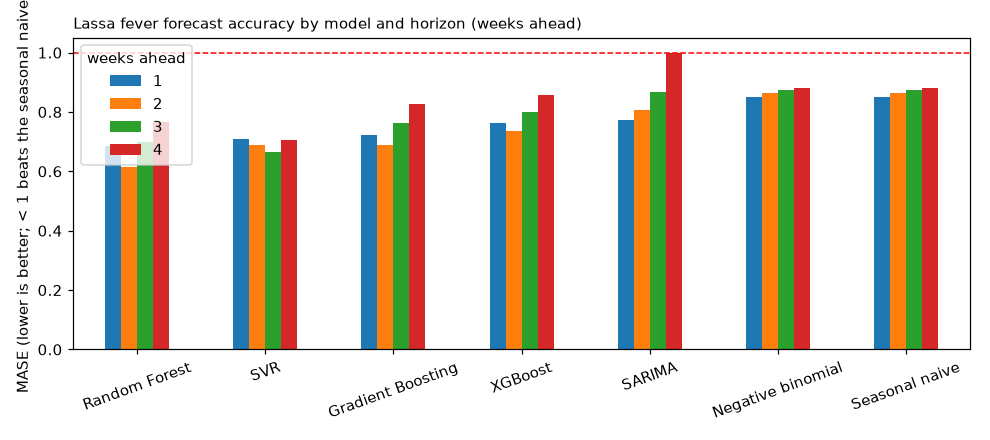
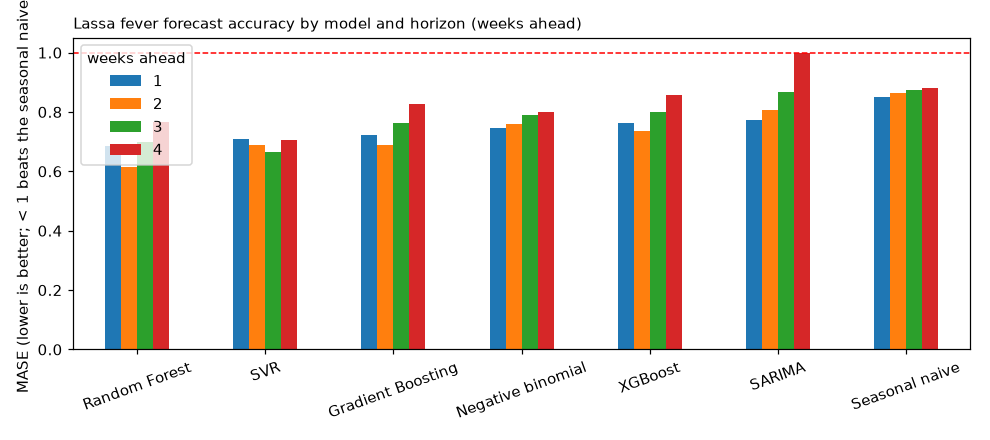
Updated the results report

diff --git a/results/README.md b/results/README.md
@@ -8,7 +8,7 @@ Generated automatically by the *Demo results report* workflow. Weeks covered: 04
 
 | started_at | run_type | status | files_new | rows_extracted | rows_passed | rows_warned | rows_quarantined | revisions_detected | seconds |
 |---|---|---|---|---|---|---|---|---|---|
-| 2026-11-18 22:19 | manual | success | 13 | 10505 | 10500 | 334 | 5 | 81 | 144 |
+| 2026-11-18 22:26 | manual | success | 13 | 10505 | 10500 | 334 | 5 | 81 | 118 |
 
 
 ## 2. Data quality
@@ -94,9 +94,9 @@ Rolling-origin evaluation over 55 forecast origins. Best 1-week model: **Random 
 | Random Forest | 0.686 | 0.616 | 0.700 | 0.766 |
 | SVR | 0.709 | 0.688 | 0.666 | 0.707 |
 | Gradient Boosting | 0.723 | 0.688 | 0.764 | 0.828 |
+| Negative binomial | 0.747 | 0.759 | 0.789 | 0.800 |
 | XGBoost | 0.765 | 0.737 | 0.799 | 0.858 |
 | SARIMA | 0.774 | 0.808 | 0.867 | 1.000 |
-| Negative binomial | 0.850 | 0.865 | 0.873 | 0.881 |
 | Seasonal naive | 0.850 | 0.865 | 0.873 | 0.881 |
 
 
@@ -105,7 +105,7 @@ Diebold-Mariano test against SARIMA, 1 week ahead (negative = more accurate than
 | model_name | mae | rmse | mase | dm_statistic | dm_p_value |
 |---|---|---|---|---|---|
 | Gradient Boosting | 6.326 | 9.084 | 0.723 | -0.594 | 0.555 |
-| Negative binomial | 7.436 | 11.617 | 0.850 | 0.798 | 0.428 |
+| Negative binomial | 6.535 | 8.722 | 0.747 | -0.860 | 0.394 |
 | Random Forest | 6.005 | 8.740 | 0.686 | -0.721 | 0.474 |
 | Seasonal naive | 7.436 | 11.617 | 0.850 | 0.798 | 0.428 |
 | SVR | 6.211 | 8.463 | 0.709 | -0.891 | 0.377 |
